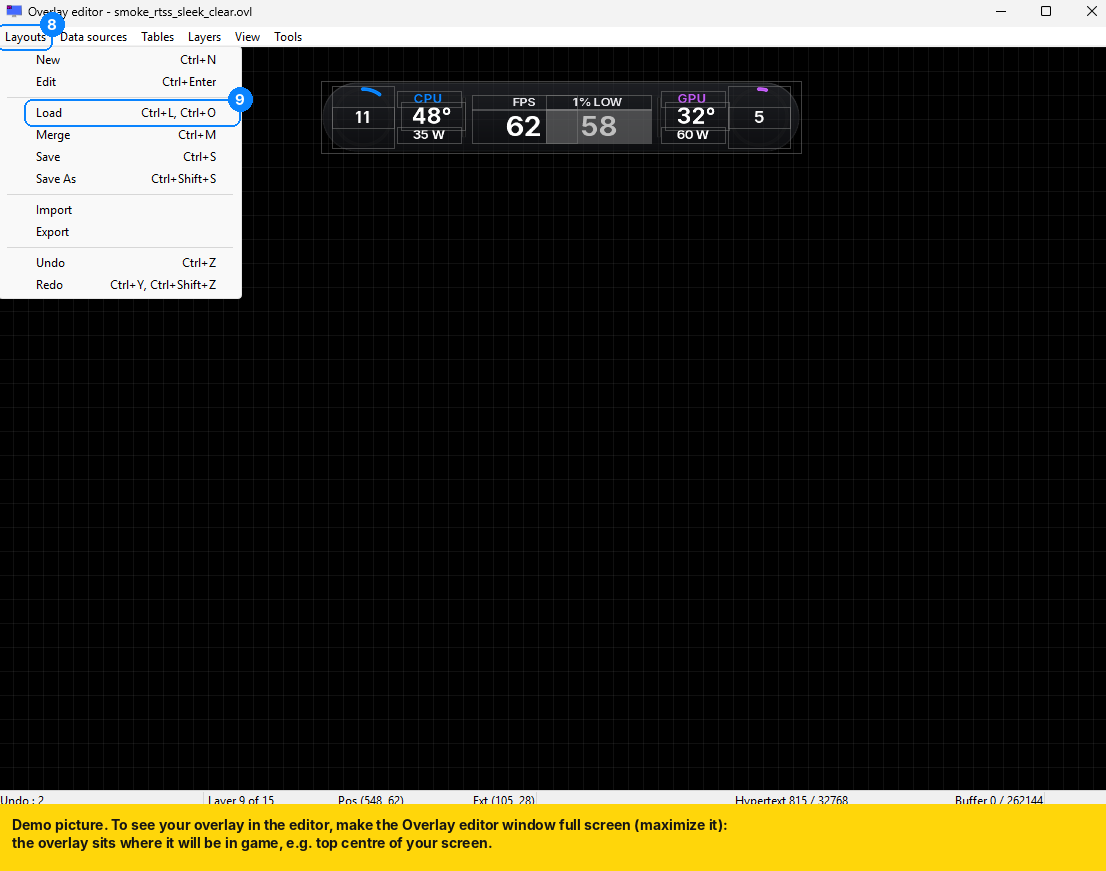
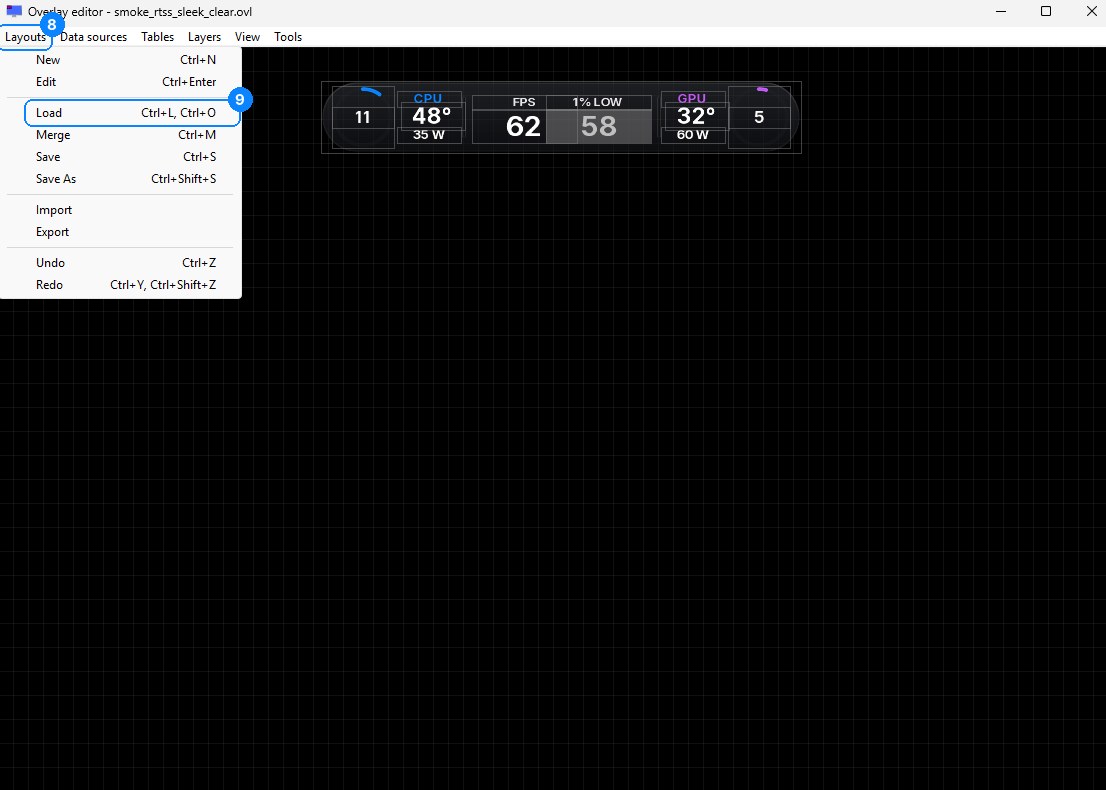
readme

Changed region(s): [[0.0, 0.881, 1.0, 1.0], [0.0, 0.0, 1.0, 0.3949], [0.2767, 0.0911, 0.7378, 0.1823]]

diff --git a/README.md b/README.md
@@ -29,7 +29,16 @@ Click a picture to **👀 see it**. Every card also has a **⬇ Download** li
 
 ### 🎮 In game
 
-<p align="center"><img src="previews/ingame/volt_sleek_compact_dark.png" alt="Volt Sleek Compact, Dark theme, in game"><br><sub><b>⚡ Volt Sleek Compact</b> · Dark theme · 5120×1440</sub></p>
+<p align="center"><img src="previews/ingame/volt_sleek_compact_smoke.png" alt="Volt Sleek Compact, Smoke theme, in game on a bright scene"><br><sub><b>⚡ Volt Sleek Compact</b> · 🆕 Smoke theme · Cyberpunk 2077 · 5120×1440</sub></p>
+
+<details>
+<summary><b>More in-game shots</b> (click to open)</summary>
+
+<p align="center"><img src="previews/ingame/volt_sleek_compact_smoke_city.png" alt="Volt Sleek Compact, Smoke theme, busy city scene"><br><sub><b>Smoke</b> over a busy city · Cyberpunk 2077</sub></p>
+
+<p align="center"><img src="previews/ingame/volt_sleek_compact_dark.png" alt="Volt Sleek Compact, Dark theme, in game"><br><sub><b>Dark</b> theme on a dark scene</sub></p>
+
+</details>
 
 <p align="center">📸 <b>Show us yours!</b> Share a screenshot or photo of your setup in <a href="https://github.com/realHfde/Apple-Style-Inspired-RTSS-Overlay/discussions/10">Show and tell</a>.</p>
 
@@ -188,9 +197,7 @@ Still in **Setup**, check the **General** tab. The FPS, 1% low and 0.1% low numb
 | **Percentile calculation mode** | **integral** |
 | **Percentile buffer** | **ring** (keeps the 1% / 0.1% lows updating live) |
 
-<sub>⚠ This picture is from an older guide and shows <b>linear</b>. Use the table above: <b>integral</b> is correct. A new picture is coming soon.</sub>
-
-<img src="previews/setup/rtss_general.png" width="420" alt="RTSS Setup General tab (older picture, shows linear; use integral)">
+<img src="previews/setup/rtss_general.png" width="420" alt="RTSS Setup General tab: framerate averaging 1000, refresh 500, percentile integral, buffer ring">
 
 <a id="benchmark-tip"></a>
 > 💡 **Tip:** still on the **General** tab, scroll down to **Compatibility properties** and tick ✅ **Enable benchmark mode**. Sometimes this is what makes the overlay appear in a game.
@@ -283,6 +290,8 @@ Open the Overlay editor the same way as in step 4: **RTSS → Setup → Plugins 
 |---|---|---|
 | 10 | Pick your overlay | e.g. `essential_sleek_smoke.ovl` |
 | 11 | **Open** | Click it, then launch a game |
+
+> 💡 **Can't see your overlay in the editor?** These are demo pictures. **Maximize the Overlay editor (full screen)** to see your overlay where it will sit in game, e.g. top centre of your screen.
 
 > 📝 **These are demo pictures.** The overlay is placed for a full screen, so **maximize the Overlay editor** (make it full screen) to see it where it will be in game: at the **top centre**, or on the **right edge** for Sleek Side and Performance.
 
